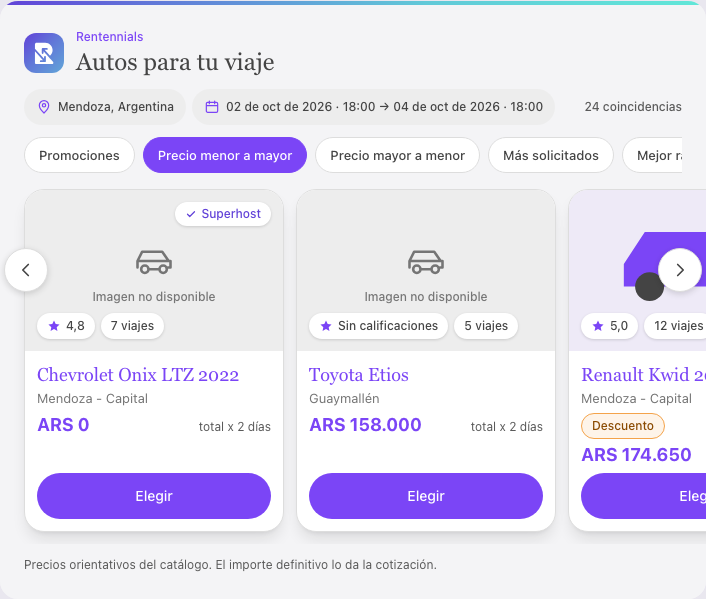
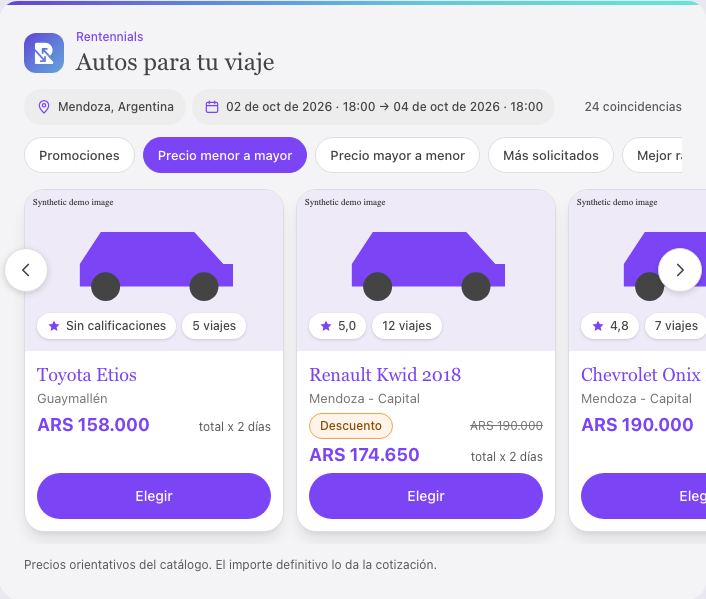
fix: corregir fixtures y capturas del carrusel

diff --git a/views/fixtures/index.ts b/views/fixtures/index.ts
@@ -26,11 +26,16 @@ export const searchResult = {
     vehicle(1, { name: 'Renault Kwid', year: '2018', owner_rating: 5, immediate_reserve: true, bookings_count: 12, price_before_promotion: 190000 }),
     vehicle(2, { name: 'Fiat Mobi Trekking 1.0', year: '2024', total_price: 204030, price_per_day: 102015, passengers: '4', city: 'Luján de Cuyo', price_before_promotion: 204030, is_super_host: true, automatic_approval: true, owner_rating: 4.9 }),
     vehicle(3, { name: 'Peugeot 208 Allure', year: '2023', total_price: 286400, price_per_day: 143200, transmission: 'Automática', city: 'Godoy Cruz', bookings_count: 38, price_before_promotion: 286400, is_super_host: true, automatic_approval: true, immediate_reserve: true, owner_rating: 4.7 }),
-    vehicle(4, { name: 'Toyota Etios', year: null, slug: null, image_url: null, passengers: null, owner_rating: null, total_price: 158000, price_per_day: 79000, city: 'Guaymallén', province: null, bookings_count: 5, price_before_promotion: 158000 }),
-    vehicle(5, { name: 'Chevrolet Onix LTZ', total_price: 0, price_per_day: 0, transmission: 'Automática', is_super_host: true, bookings_count: 7, price_before_promotion: 0, image_url: 'http://photos.rentennials.app/insecure.jpg' }),
-    vehicle(6, { name: 'Volkswagen Polo Highline con un nombre de publicación muy largo para probar el ajuste de línea', year: '2021', total_price: 312900, price_per_day: 156450, transmission: 'Automática', city: 'Las Heras', bookings_count: 3, price_before_promotion: 340000, automatic_approval: true, image_url: 'https://evil.example.com/v6.jpg', owner_rating: 0 }),
+    vehicle(4, { name: 'Toyota Etios', year: null, slug: null, passengers: null, owner_rating: null, total_price: 158000, price_per_day: 79000, city: 'Guaymallén', province: null, bookings_count: 5, price_before_promotion: 158000 }),
+    vehicle(5, { name: 'Chevrolet Onix LTZ', total_price: 190000, price_per_day: 95000, transmission: 'Automática', is_super_host: true, bookings_count: 7, price_before_promotion: 190000 }),
+    vehicle(6, { name: 'Volkswagen Polo Highline con un nombre de publicación muy largo para probar el ajuste de línea', year: '2021', total_price: 312900, price_per_day: 156450, transmission: 'Automática', city: 'Las Heras', bookings_count: 3, price_before_promotion: 340000, automatic_approval: true, owner_rating: 0 }),
   ],
 };
+
+// Edge cases used by Vitest only; they are not part of the default result pages.
+export const noPhotoVehicle = vehicle(11, { name: 'Sin foto', image_url: null });
+export const unsafeImageVehicle = vehicle(12, { name: 'Imagen insegura', image_url: 'http://photos.rentennials.app/insecure.jpg' });
+export const zeroPriceVehicle = vehicle(13, { name: 'Sin precio', total_price: 0, price_per_day: 0, price_before_promotion: 0 });
 
 const moreVehicles = [
   vehicle(8, { name: 'Ford Ka SE', year: '2019', total_price: 131000, price_per_day: 65500, city: 'Maipú', bookings_count: 1, price_before_promotion: 131000, owner_rating: 4.2 }),

diff --git a/views/src/views.test.tsx b/views/src/views.test.tsx
@@ -25,6 +25,7 @@ describe('contracts accept every fixture', () => {
 describe('vehicle-results', () => {
   const html = render(<VehicleResultsContent data={SearchVehiclesResult.parse({ ...fx.searchResult, vehicles: fx.searchResult.vehicles.slice(0, 5) })} actions={actions} />);
   const one = (index: number) => render(<VehicleResultsContent data={SearchVehiclesResult.parse({ ...fx.searchResult, vehicles: [fx.searchResult.vehicles[index]] })} actions={actions} />);
+  const card = (vehicle: unknown) => render(<VehicleResultsContent data={SearchVehiclesResult.parse({ ...fx.searchResult, vehicles: [vehicle] })} actions={actions} />);
   it('renders cards, badges only for true and estimate notice', () => {
     expect(html).toContain('Renault Kwid 2018');
     expect(html).toContain('24 coincidencias');
@@ -51,15 +52,22 @@ describe('vehicle-results', () => {
     expect(noProvince).not.toContain('null');
     expect(one(0)).toContain('Mendoza - Capital');
   });
-  it('keeps null rating, null year, zero price and rejects unsafe images', () => {
+  it('keeps null rating and year, and rejects unsafe or missing images', () => {
     expect(html).toContain('Sin calificaciones');
     expect(html).toContain('>Toyota Etios<');
-    expect(html).toMatch(/ARS\s0/);
     expect(html).not.toContain('http://photos.rentennials.app');
     expect(html).not.toContain('evil.example.com');
-    expect(html).toContain('Imagen no disponible');
-    const zero = render(<VehicleResultsContent data={SearchVehiclesResult.parse({ ...fx.searchResult, vehicles: [fx.searchResult.vehicles[5]] })} actions={actions} />);
-    expect(zero).toContain('0,0');
+    expect(card(fx.unsafeImageVehicle)).toContain('Imagen no disponible');
+    expect(card(fx.noPhotoVehicle)).toContain('Imagen no disponible');
+    expect(card(fx.searchResult.vehicles[5])).toContain('0,0');
+  });
+  it('shows price unavailable instead of zero when total_price is 0 or null', () => {
+    for (const vehicle of [fx.zeroPriceVehicle, { ...fx.zeroPriceVehicle, total_price: null, price_per_day: null }]) {
+      const markup = card(vehicle);
+      expect(markup).toContain('Precio no disponible');
+      expect(markup).not.toMatch(/ARS\s0/);
+      expect(markup).not.toContain('total x');
+    }
   });
   it('wraps long names and never shows ids or slugs', () => {
     expect(html).not.toContain('nombre de publicación muy largo');

diff --git a/views/src/vehicle-results/View.tsx b/views/src/vehicle-results/View.tsx
@@ -42,14 +42,15 @@ function VehicleCard({ v, chosen, pending, locked, onChoose }: { v: VehicleSumma
   const { t, locale } = useI18n();
   const title = vehicleTitle(v);
   const rating = formatRating(v.owner_rating, locale);
-  const total = formatMoney(v.total_price, v.currency, locale);
-  const onPromo = typeof v.price_before_promotion === 'number' && typeof v.total_price === 'number' && v.price_before_promotion > v.total_price;
+  const totalPrice = typeof v.total_price === 'number' && v.total_price > 0 ? v.total_price : null;
+  const total = totalPrice === null ? null : formatMoney(totalPrice, v.currency, locale);
+  const onPromo = totalPrice !== null && typeof v.price_before_promotion === 'number' && v.price_before_promotion > totalPrice;
   const before = onPromo ? formatMoney(v.price_before_promotion, v.currency, locale) : null;
   const place = [v.province, v.city].filter((part): part is string => Boolean(part)).join(' - ') || t('results.noCity');
   const trips = typeof v.bookings_count === 'number' && v.bookings_count > 0
     ? (v.bookings_count === 1 ? t('results.trip', { n: 1 }) : t('results.trips', { n: v.bookings_count }))
     : null;
-  const days = typeof v.total_days === 'number'
+  const days = totalPrice !== null && typeof v.total_days === 'number'
     ? (v.total_days === 1 ? t('results.day') : t('results.days', { n: v.total_days }))
     : null;
 

diff --git a/views/e2e/views.spec.ts b/views/e2e/views.spec.ts
@@ -10,7 +10,7 @@ const THEMES = ['light', 'dark'] as const;
 test.beforeEach(async ({ page }) => {
   await page.route('https://photos.rentennials.app/fixtures/**', (route) => route.fulfill({
     contentType: 'image/svg+xml',
-    body: '<svg xmlns="http://www.w3.org/2000/svg" width="800" height="600" viewBox="0 0 800 600"><rect width="800" height="600" fill="#eeeaf7"/><path d="M170 350v-70l65-100h290l90 100h30v70z" fill="#7B45F6"/><circle cx="250" cy="350" r="45" fill="#444"/><circle cx="555" cy="350" r="45" fill="#444"/><text x="400" y="480" text-anchor="middle" fill="#444" font-size="30">Synthetic demo image</text></svg>',
+    body: '<svg xmlns="http://www.w3.org/2000/svg" width="800" height="600" viewBox="0 0 800 600"><rect width="800" height="600" fill="#eeeaf7"/><path d="M170 350v-70l65-100h290l90 100h30v70z" fill="#7B45F6"/><circle cx="250" cy="350" r="45" fill="#444"/><circle cx="555" cy="350" r="45" fill="#444"/><text x="24" y="95" fill="#444" font-size="28">Synthetic demo image</text></svg>',
   }));
   await page.route('https://images.example.com/**', (route) => route.fulfill({ contentType: 'image/svg+xml', body: '<svg xmlns="http://www.w3.org/2000/svg" width="800" height="600"><rect width="800" height="600" fill="#7B45F6"/></svg>' }));
 });

diff --git a/views/VIEWS-SPEC.md b/views/VIEWS-SPEC.md
@@ -378,7 +378,7 @@ pills sobre ella, luego nombre, lugar, descuento, total y el botón Elegir.
 
 **Layout**
 
-- Carrusel horizontal de 3 a 8 ítems con la siguiente tarjeta asomando. Tarjetas
+- Cada consulta de la view (orden y “Ver más autos”) pide 5 autos (`limit: 5`). “Ver más autos” agrega de a 5 hasta 15 vehículos cargados; el botón desaparece al llegar a 15 o cuando `has_more` es false. La carga inicial es la que devuelve la tool. El carrusel muestra la siguiente tarjeta asomando. Tarjetas
   de 260 px (240 px bajo 400 px de ancho) y 12 px de separación, con snap.
   Flechas anterior y siguiente desde 640 px.
 - Chips en vez de menús. Sin scroll vertical interno: la view crece en alto; el
